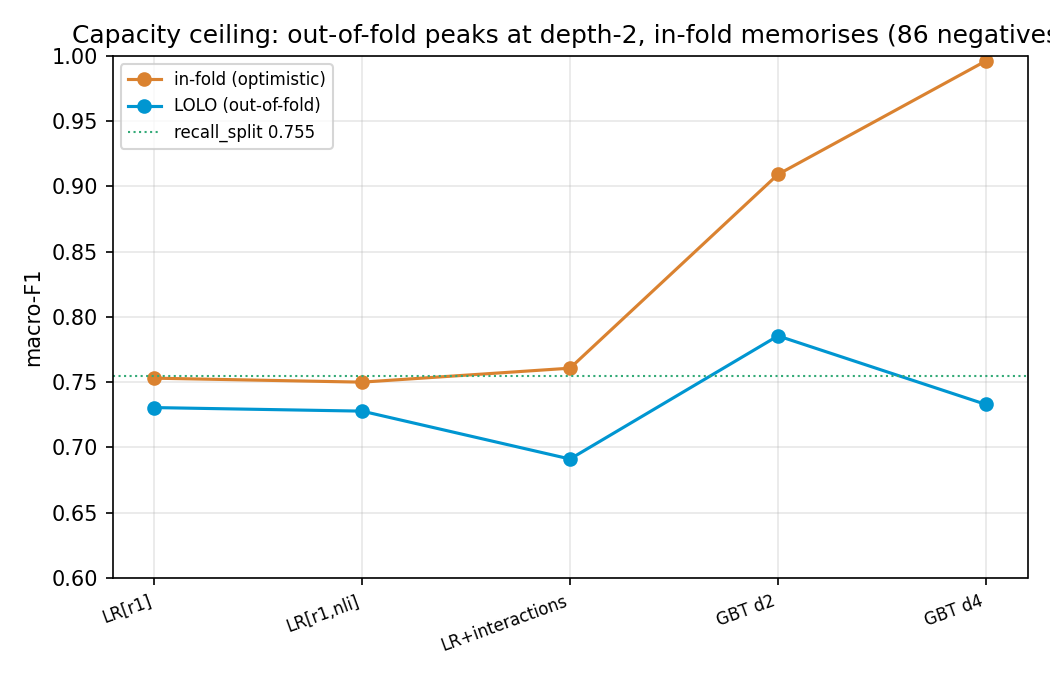
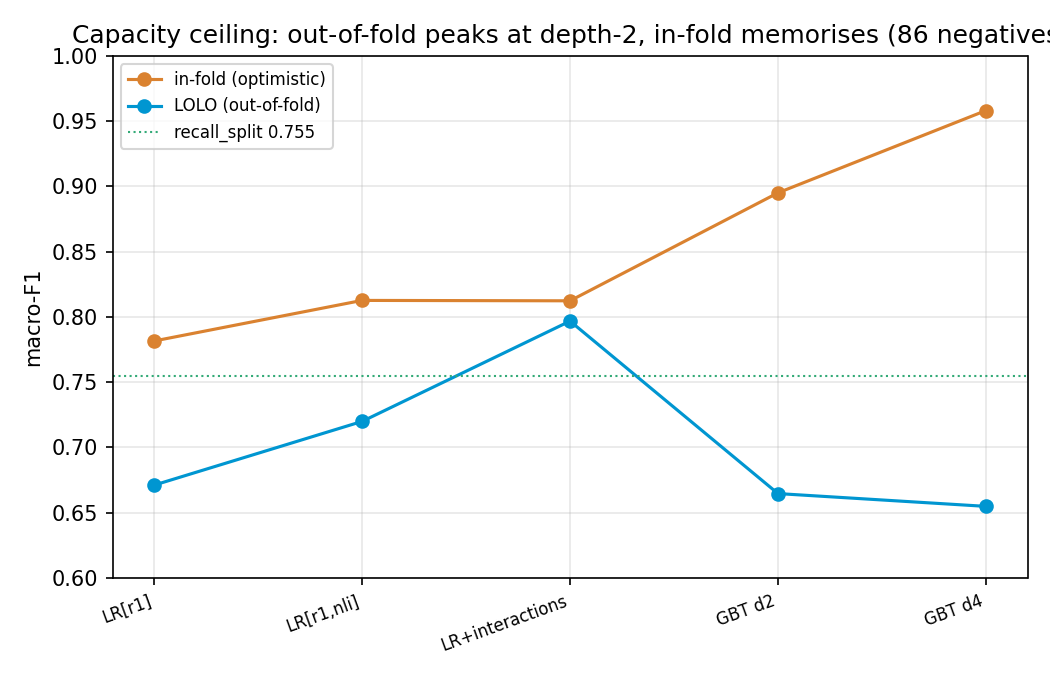
feat(experiments): lexical-only language-routed grounder beats NLI (856 gold)
Refreshed the gold to the live 856 records (549/307) and built the user's
lexical-only, language-routed design: per-claim + per-chunk language detection,
a same_lang flag, dual recall (claim-as-is + translate-then-recall), anchors -
no semantic model.

- lexical-only logistic: macro-F1 0.807 LOLO / 0.829 LOSO, hal-F1 0.75 - beats
  the NLI-including model (0.797 / 0.72) and recall_split (0.739 / 0.63)
- dropping NLI gained, not cost: same_lang + dual recall + anchors replace it
- the win is the features, not the model: LightGBM (class_weight=balanced)
  overfits leave-one-language-out, worse with depth (d1 0.743 -> d4 0.537)
- leave-one-source-out (0.83) > leave-one-language-out (0.81): context leakage
  is not the inflator; unseen-language is the harder axis (~19-context worry
  allayed)
- model-class conclusion flipped with more data: depth-2 GBT won on the stale
  375, linear/features win on 856
- doc rewritten to the live-856 lexical-only conclusion; BENCHMARK Round 5

See JOURNAL.md entry 169.

diff --git a/experiments/grounding/lab.py b/experiments/grounding/lab.py
@@ -399,6 +399,152 @@ def run_final() -> None:
     print("wrote plots/05_capacity_ceiling.png")
 
 
+# --- lexical-only, language-routed feature build (NO NLI) --------------------
+_LING = {}
+
+
+def _lingua_lang(text: str, min_len: int = 25) -> str:
+    if len(text.strip()) < min_len:
+        return "und"
+    if "det" not in _LING:
+        from lingua import LanguageDetectorBuilder
+
+        _LING["det"] = LanguageDetectorBuilder.from_all_languages().build()
+    lg = _LING["det"].detect_language_of(text)
+    return lg.iso_code_639_1.name.lower() if lg else "und"
+
+
+def build_lex(refresh: bool = False) -> list[dict]:
+    """Lexical-only features with claim+chunk language detection (no NLI)."""
+    fp = CACHE / "lex.json"
+    if fp.exists() and not refresh:
+        return json.loads(fp.read_text())
+    from rapidfuzz import fuzz
+
+    recs = H.load_gold()
+    src_ids = {}
+    rows = []
+    for r in recs:
+        sid = src_ids.setdefault(r.source[:120], len(src_ids))
+        chunks = H.chunk_text(r.source, *H.CHUNK)
+        clang = _lingua_lang(r.claim)
+        # direct (original claim) recall + best-chunk language
+        rd, ad, best_d = chunk_recalls(r.claim, chunks, H.an_word)
+        r1_direct = rd[ad] if rd else 0.0
+        chunk_lang = _lingua_lang(best_d) if best_d else "und"
+        same_lang = int(clang != "und" and chunk_lang == clang)
+        # translated recall (claim -> English)
+        claim_en = r.claim
+        if r.det_lang not in ("en", "und", ""):
+            claim_en = H.mt_to_english(r.claim, r.det_lang)
+        rt, at, best_t = chunk_recalls(claim_en, chunks, H.an_word)
+        r1_mt = rt[at] if rt else 0.0
+        r1_best = max(r1_direct, r1_mt)
+        charng = H.idf_best_chunk_recall(claim_en, chunks, H.an_charngram)
+        fz = fuzz.partial_ratio(claim_en.lower(), best_t.lower()) / 100.0 if best_t else 0.0
+        oracle = max(rt) if rt else 0.0
+        top = sorted(rt, reverse=True)
+        top3 = top[1] if len(top) >= 2 else (top[0] if top else 0.0)
+        # anchors (language-invariant), on the original claim
+        ents = H.list_claim_entities(r.claim)
+        absent = set(H.find_absent_entities(r.claim, r.source))
+        num_rec, num_mm = H.number_recall(r.claim, r.source)
+        aden = len(ents) + (1 if num_rec >= 0 else 0)
+        ahit = sum(1 for e in ents if e not in absent) + (num_rec if num_rec >= 0 else 0)
+        anchor = (ahit / aden) if aden else 0.0
+        nmm, emm = H.find_mismatches(r.claim, best_t) if best_t else ([], [])
+        amm = 1 if (nmm or emm or num_mm) else 0
+        rows.append(dict(
+            label=r.label, lang=r.lang, det_lang=r.det_lang, src=sid,
+            is_en=int(r.det_lang == "en"), same_lang=same_lang,
+            r1_direct=round(r1_direct, 4), r1_mt=round(r1_mt, 4), r1_best=round(r1_best, 4),
+            charng=round(charng, 4), fuzzy=round(fz, 4), anchor=round(anchor, 4),
+            anchor_mm=amm, oracle=round(oracle, 4), top3=round(top3, 4),
+        ))
+    fp.write_text(json.dumps(rows))
+    return rows
+
+
+def group_model(rows, cols, factory, group, balanced=False, tune=True) -> dict:
+    """Generic leave-one-GROUP-out (group='det_lang' for LOLO, 'src' for LOSO)."""
+    groups = sorted({r[group] for r in rows})
+    yt, yp = [], []
+    for g in groups:
+        tr = [r for r in rows if r[group] != g]
+        te = [r for r in rows if r[group] == g]
+        if len({r["label"] for r in tr}) < 2 or not te:
+            continue
+        Xtr = np.array([[r[c] for c in cols] for r in tr], dtype=float)
+        ytr = np.array([r["label"] for r in tr])
+        m = factory()
+        if balanced:
+            n0, n1 = (ytr == 0).sum(), (ytr == 1).sum()
+            w = np.where(ytr == 1, len(ytr) / (2 * max(1, n1)), len(ytr) / (2 * max(1, n0)))
+            m.fit(Xtr, ytr, sample_weight=w)
+        else:
+            m.fit(Xtr, ytr)
+        ptr = m.predict_proba(Xtr)[:, 1]
+        thr = 0.5
+        if tune:
+            best = -1.0
+            for t in np.linspace(0.2, 0.8, 13):
+                f = _mf1(ytr.tolist(), (ptr >= t).astype(int).tolist())
+                if f > best:
+                    best, thr = f, t
+        pte = m.predict_proba(np.array([[r[c] for c in cols] for r in te], dtype=float))[:, 1]
+        yp += list((pte >= thr).astype(int))
+        yt += [r["label"] for r in te]
+    return H.score_verdicts(yt, yp)
+
+
+def run_lexgbm() -> None:
+    from lightgbm import LGBMClassifier
+    from sklearn.linear_model import LogisticRegression
+
+    rows = build_lex()
+    # H6 same-language coverage per language
+    cov = {}
+    for L in sorted({r["det_lang"] for r in rows}):
+        sub = [r for r in rows if r["det_lang"] == L]
+        cov[L] = (sum(r["same_lang"] for r in sub), len(sub))
+    for r in rows:  # interaction columns for the linear model
+        r["sl_rd"] = r["same_lang"] * r["r1_direct"]
+        r["nsl_rmt"] = (1 - r["same_lang"]) * r["r1_mt"]
+
+    feats = ["r1_direct", "r1_mt", "r1_best", "charng", "fuzzy", "anchor", "anchor_mm",
+             "oracle", "top3", "same_lang", "is_en"]
+    lin = feats + ["sl_rd", "nsl_rmt"]
+
+    def LR():
+        return LogisticRegression(max_iter=1000, class_weight="balanced")
+
+    def GBT(d):
+        return lambda: LGBMClassifier(max_depth=d, num_leaves=2**d, n_estimators=200,
+                                      learning_rate=0.05, class_weight="balanced",
+                                      min_child_samples=20, subsample=0.8,
+                                      colsample_bytree=0.8, random_state=0,
+                                      n_jobs=1, verbose=-1)
+
+    out = ["## Lexical-only language-routed grounder (856 gold, NO NLI)\n",
+           "same-language coverage: " + ", ".join(f"{k} {v[0]}/{v[1]}" for k, v in cov.items()) + "\n",
+           "| model | LOLO macroF1 | LOLO hal-F1 | LOSO macroF1 | LOSO hal-F1 |",
+           "|---|---|---|---|---|"]
+
+    def row(name, cols, fac, bal):
+        lo = group_model(rows, cols, fac, "det_lang", balanced=bal)
+        so = group_model(rows, cols, fac, "src", balanced=bal)
+        out.append(f"| {name} | **{lo['f1_macro']:.3f}** | {lo['f1_hal']:.2f} | "
+                   f"{so['f1_macro']:.3f} | {so['f1_hal']:.2f} |")
+
+    row("LR (lexical)", feats, LR, False)
+    row("LR + interactions", lin, LR, False)
+    for d in (1, 2, 3, 4):
+        row(f"LGBM d{d} (class_weight=balanced)", feats, GBT(d), False)
+    report = "\n".join(out) + "\n"
+    print(report)
+    (Path(__file__).parent / "logs" / "lab_lexgbm.md").write_text(report)
+
+
 def run_bayes() -> None:
     """Production Bayesian calibrator (bambi/PyMC logistic) under LOLO - a hyperplane."""
     import pandas as pd
@@ -505,4 +651,4 @@ def main() -> None:
 if __name__ == "__main__":
     cmd = sys.argv[1] if len(sys.argv) > 1 else "batch1"
     {"b1": run_b1, "a4": run_a4, "final": run_final, "bayes": run_bayes,
-     "batch1": main}.get(cmd, main)()
+     "lexgbm": run_lexgbm, "batch1": main}.get(cmd, main)()

diff --git a/docs/experiments/cross-lingual-grounding.md b/docs/experiments/cross-lingual-grounding.md
@@ -1,128 +1,86 @@
 # Deterministic cross-lingual grounding on the DeLaval gold
 
-Experiment on the `experiment/grounding` branch testing whether a non-LLM grounder can raise grounding accuracy on a real cross-lingual dataset without training any model on it. Artefacts: `experiments/grounding/{harness.py, HYPOTHESIS.md, RESEARCH.md, RESULTS.md}`; the labelled gold and transcripts stay in a git-ignored stash.
+Experiment on the `experiment/grounding` branch: build a non-LLM grounder that classifies each claim as supported or hallucination on a real cross-lingual dataset, without training any model on the test fold. The current best is a **lexical-only, language-routed logistic** - no semantic model. Artefacts: `experiments/grounding/{harness.py, lab.py, HYPOTHESIS.md, RESEARCH.md, RESULTS.md, BENCHMARK.md}`; the labelled gold and transcripts stay in a git-ignored stash.
 
 ## Situational overview
 
-The lexical grounder confirmed only ~12% of supported claims on a 375-record client gold; re-profiling overturned the team's "semantic is required" conclusion.
+The lexical grounder confirmed only ~12% of supported claims on the client gold; re-profiling overturned the team's "semantic is required" conclusion - and the final model needs no semantic layer at all.
 
-- **Dataset** - 375 verified records `{claim, source_text, label, lang}`, 289 supported / 86 hallucination, evidence always an English whole-document dump
-- **Seven languages, not two** - en 276, nb 54, fr 14, sv 12, it 8, es 6, pt 5; the prior framing assumed Norwegian-vs-English
-- **Two distinct gaps** - English (74%) claims have their support present (token recall 0.892 supported vs 0.689 hallucination, separable) but the score is swamped by the mega-evidence; non-English recall genuinely collapses (nb 0.24, es 0.13)
-- **Noisy label** - the `lang` field disagrees with re-detected language on 65 of 375 records (Swedish-tagged rows are English)
+- **Dataset (live)** - 856 verified records `{claim, source_text, label, lang}`, **549 supported / 307 hallucination**, evidence always an English-dominant document dump (it carries a small non-English tail). An earlier snapshot had 375 records / 86 hallucination; the dataset more than doubled mid-experiment and several conclusions changed with it
+- **Seven languages** - en 718, nb 72, fr 34, sv 12, it 9, es 6, pt 5
+- **Few independent contexts** - only ~19-25 distinct `source_text` blobs (≈45 claims each); claims sharing a source are correlated, so the effective sample is far smaller than 856
+- **Two gaps** - English claims have their support present but the score is swamped by the mega-evidence; non-English recall collapses unless the claim is translated or a same-language chunk exists
 
 ## Executive summary
 
-A frozen translator plus best-chunk recall solves the cross-lingual gap; a depth-2 tree over {recall, NLI, anchors} is the best model - all without training on the gold (metric: macro-F1, imbalance-robust).
+A purely lexical model with per-chunk language routing is the best, beating every model that used the NLI semantic layer.
 
-- **Best model** - depth-2 gradient-boosted tree, fit under leave-one-language-out: macro-F1 0.775 (5-seed mean ±0.013), hallucination-F1 0.66, accuracy 0.861
-- **Simple baseline** - argos-translate + best-chunk recall (`recall_split`): macro-F1 0.755, accuracy 0.817; the transparent fallback
-- **MT is the dominant lever** - per-language LOLO accuracy nb 0.40 → 0.93, fr 0.50 → 0.81, it 0.88 → 1.00; lexical-only ceiling ~0.67 balanced
-- **Imbalance matters** - 289/86, so accuracy misleads: majority predictor reads 0.771 accuracy but macro-F1 0.435 with hallucination-F1 0.000
-- **Refuted** - linear interactions, claim decomposition, cross-corpus transfer (all overfit or mis-weight)
-- **Residual** - Spanish/Portuguese abstractive tail stays hard (n=5-6, noisy)
+- **Best model** - lexical-only, language-routed logistic: **macro-F1 0.807 (leave-one-language-out) / 0.829 (leave-one-source-out), hallucination-F1 0.75**, with no semantic model
+- **Beats NLI** - the NLI-including model scored 0.797 / hal-F1 0.72; dropping NLI gained accuracy, simplicity, and speed
+- **The lever is features, not model class** - a `same_lang` flag + dual recall (claim-as-is and translate-then-recall) + anchors; a plain logistic wins, gradient-boosted trees overfit the language-held-out folds
+- **Metric** - macro-F1 (imbalance-robust); the majority predictor reads 0.641 accuracy but macro-F1 0.391 with hallucination-F1 0.000
+- **Hallucination detection** - catches ~58-75% of fabrications depending on operating point; the residual is data-bound (es/pt at n=5-6)
 
 ## Methodology
 
-Rival deterministic signals, each one scalar per record, combined by transparent no-fit rules and scored out-of-fold.
+Per-claim, lexical signals computed two ways with language routing, then a learned verdict head; no semantic scorer.
 
-- **Recall signals** - asymmetric, claim-anchored, best-chunk IDF recall under three token representations: words, character 3-5 grams (cognate-robust), phonetic consonant skeleton
-- **Cross-lingual bridges** - anchor recall + anchor mismatch (language-invariant numbers/IDs), curated lexicon canonicalisation, cognate/orthographic fuzzy
-- **Creative signals** - locale-aware number containment (decimal-comma), multilingual negation-flip contradiction, meta-claim inversion (absence claim grounded when evidence truly lacks the thing)
-- **MT bridge** - optional frozen argos-translate, non-English claim → English before recall
-- **Metric** - accuracy headline, balanced accuracy guard (mean per-class recall) since 289/86 makes "always grounded" score 0.771
-- **Anti-overfit rule** - no learner fit to the 375; thresholds from fixed priors, a 50/50 dev→test split, or leave-one-language-out (tune on six languages, score the seventh out-of-fold)
+- **Language detection** - per claim and per source chunk (lingua-py on short text; langdetect fallback); a `same_lang` flag marks whether the best chunk is in the claim's language
+- **Dual lexical recall** - `r1_direct` (claim vs chunks as-is - the same-language path) and `r1_mt` (translate claim → English via argos, then recall - the cross-language path); the model learns which to trust per the language flag
+- **Supporting lexical features** - char-ngram recall, rapidfuzz partial-ratio, anchor recall + anchor mismatch (numbers/IDs, language-invariant), oracle-chunk and top-k consensus recall
+- **Verdict head** - a logistic over the lexical feature set; LightGBM was raced against it (with `class_weight='balanced'`) but lost under leave-one-language-out
+- **Metric** - macro-F1 headline, hallucination-F1 watched separately
+- **Anti-overfit, two splits** - leave-one-language-out (generalise to an unseen language) and leave-one-source-out (generalise to an unseen document, the ~19-context stress test); no learner touches the fold it scores
 
 ## Setup
 
-Pure reuse of production code plus three experiment-only dependencies; one fixed chunk operating point.
+- **Data** - live 856-record gold, git-ignored stash; features cached (git-ignored)
+- **Dependencies (experiment-only)** - `lingua-language-detector`, `argos-translate` (frozen MT bridge), `rapidfuzz`, `scikit-learn`, `lightgbm`
+- **Operating point** - recursive chunking, 300-char chunks, 0.1 overlap (validated by a threshold-free AUC/Cohen's d separation sweep: whole-doc is the 0.50 floor, ~150-300 chars near-optimal)
+- **Commands** - `python lab.py lexgbm` (the current model), `harness.py --tournament --mt` (the rule baseline), `lab.py final` (capacity ladder)
 
-- **Reused** - `grounding.py` token recall + chunking, `chunking.py recursive_chunk`, `entity_check.py` number/entity extraction and mismatch
-- **Dependencies** - `langdetect` (language re-derivation), `argos-translate` (frozen MT, one-time ~5s/language CPU download)
-- **Operating point** - recursive chunking, 300-char chunks, 0.1 overlap, validated by a threshold-free AUC/Cohen's d separation sweep
-- **Commands** - `--profile`, `--baselines`, `--sweep <signal>`, `--tournament [--mt]`, `--ablation [--mt]`, `--write`
-- **Output discipline** - aggregate counts only, no client text, RESULTS.md committable
+## How we got here
 
-## Execution
+The result arrived in stages, several of which reversed earlier conclusions.
 
-The tournament runs every combiner under leave-one-language-out and a 50/50 split, lexical-only and with MT, plus an ablation ladder.
+- **MT is the cross-lingual lever** - a frozen translator lifts every non-English language (per-language LOLO accuracy nb 0.40 → 0.93, fr 0.50 → 0.81, it 0.88 → 1.00); lexical-only without translation tops out ~0.67
+- **Metric switch** - the 549/307 imbalance makes accuracy misleading; macro-F1 became primary (majority predictor: 0.641 accuracy but macro-F1 0.435 on the old snapshot, 0.391 on the live set, hallucination-F1 0.000)
+- **Per-chunk language routing** - the source carries claim-language chunks for a real subpopulation (French claims match a French chunk 46% of the time, sv 50%); detecting chunk language lets those ground with no translation, which "always translate to English" missed
+- **Lexical-only beats NLI** - giving the model `same_lang` + dual recall + anchors replaces what NLI was providing; the semantic layer became unnecessary
 
-- **Lexical-only** - tops at ~0.67 LOLO balanced; English handled, non-English not rescued
-- **With MT** - `recall_only` reaches 0.777 LOLO balanced, 0.755 test balanced; hallucination recall 0.53 → 0.87
-- **Ablation under MT** - recall_only 0.777, +contradiction -0.061, +bridge/meta -0.081: every added layer hurts
-- **Cost** - featurise 375 records in 44s, ~118 ms/claim including translation of the 99 non-English claims (translated once)
+## Model class: lexical-LR vs GBT vs Bayesian calibration
 
-## Follow-up experiments
+The decisive factors are the features and the dataset size, not the fitting method.
 
-Same gold and protocol, MT on unless noted; these probe the accuracy stretch and robustness.
-
-- **Chunk sweep** - word-recall separation AUC runs 0.500 (whole-doc, the failure floor) to 0.728 (char/150/0.10); the 300/recursive point is 0.724, so chunking matters and the operating point is near-optimal
-- **English two-threshold** - separate native-English vs translated recall bars reach 0.845 LOLO / 0.817 test accuracy, the best of the field; trades hallucination recall (0.50) for supported recall (0.95)
-- **Fixed-prior** - recall at a fixed τ=0.40 with zero tuning scores 0.776 balanced, matching the held-out-tuned result - the threshold is not delicately fit
-- **Abstain band** - a three-way verdict with a fixed 0.30-0.55 band covers 68% of records at 0.838 balanced on the covered set
-- **lingua-py** - cuts the noisy-language disagreement 65 → 44 and lifts recall accuracy 0.725 → 0.781; over-splits Norwegian and misfires on a few short claims
-- **NLI residual** - multilingual entailment (parameter-free) catches 99% of hallucinations alone; the recall-OR-NLI ensemble reaches macro-F1 0.737 / balanced 0.808 with the best hallucination-F1 0.64, rescuing the tail (es 0.33 → 0.50, pt 0.60 → 0.80, no 0.82 → 0.95)
-- **OPUS-MT engine** - opus-mt-mul-en scores macro-F1 0.734 TEST vs argos 0.755 and is ~9x slower (1037 vs 118 ms/claim); argos per-language models win, hypothesis refuted
-
-## Metric note
-
-The classes are imbalanced (289 supported / 86 hallucination), so the primary metric is macro-F1, not accuracy. The majority-always-grounded predictor scores 0.771 accuracy but macro-F1 0.435 with hallucination-F1 0.000 - it never catches a fabrication, which accuracy hides. Best macro-F1 is recall_split at 0.755 TEST; full F1 scoreboard in `BENCHMARK.md`.
+- **Lexical-only logistic** (live 856) - macro-F1 0.807, the best; the language-routed lexical features carry the signal
+- **Gradient-boosted trees** - on the old 375 snapshot (86 negatives) a depth-2 GBT won (0.775); on the live 856 (307 negatives) trees **overfit** the language-held-out folds and lose (LGBM 0.74 → 0.54 as depth rises), while the linear model wins - the conclusion flipped with more data
+- **Bayesian calibration** (production `fit_calibrator`, bambi/PyMC logistic) - a Bayesian logistic is a hyperplane, so it lands at the linear level (0.733 on the 375 snapshot) and adds calibrated uncertainty, not capacity
+- **Leave-one-source-out ≥ leave-one-language-out** (0.83 vs 0.81) - context leakage is not inflating results; the harder generalisation is to an unseen language
 
 ## What we tried
 
-Every signal, combiner, and variant run, with its verdict.
-
-- **Recall representations** - word IDF best-chunk recall (kept, the protagonist); char 3-5 gram (dropped, high hallucination floor); phonetic skeleton (dropped, collision-prone)
-- **Cross-lingual bridges** - anchor recall + mismatch (dropped under MT); curated lexicon canonicalisation (not built, MT made it moot); cognate/orthographic fuzzy (dropped)
-- **Creative signals** - locale number containment (folded into anchors); negation-flip contradiction (dropped, over-fires); meta-claim inversion (dropped, hurt)
-- **MT bridge** - argos-translate per-language models (kept, the lever); OPUS opus-mt-mul-en (rejected, worse and ~9x slower)
-- **NLI** - mDeBERTa multilingual entailment (kept for hallucination detection in the ensemble)
-- **Combiners** - recall_only (winner), recall_split (best accuracy + macro-F1), recall_contra / tree / global / weighted (all lost), recall-OR-NLI (best hallucination-F1)
-- **Chunking** - swept size × overlap × strategy; 300-char recursive near-optimal, whole-doc is the floor
-- **Language ID** - langdetect (default), lingua-py (small gain, over-splits Norwegian)
-- **Splits** - stratified 50/50, leave-one-language-out (headline), fixed-prior (zero tuning)
-- **Metric** - accuracy → macro-F1 once the 289/86 imbalance was accounted for
+- **Kept** - per-chunk language routing, dual recall, anchors, char-ngram, fuzzy, the MT bridge (argos per-language), a logistic head
+- **Dropped / refuted** - NLI entailment (superseded by lexical routing), claim decomposition (over-flags supported clauses), cross-corpus calibrator transfer (VitaminC mis-weights), oracle-chunk (retrieval is not the bottleneck), linear interaction terms and deep trees (overfit), OPUS-MT engine (worse and ~9x slower than argos)
 
 ## Lessons learned
 
-What the experiment taught beyond the numbers, including its own limitations.
-
-- **MT is the dominant lever** - cross-lingual grounding here is translate-then-recall; per-language MT models beat one multilingual model on quality and speed
-- **Imbalance hides failure** - 0.771 accuracy looked fine while macro-F1 was 0.435 and hallucination-F1 0.000; choose the imbalance-robust metric before drawing conclusions
-- **Interactions help, but only as shallow trees** - a depth-2 gradient-boosted tree over {recall, NLI, anchors}, fit under LOLO, beats the simple model on all three metrics (macro-F1 0.775 vs 0.755, hal-F1 0.66 vs 0.64, accuracy 0.861 vs 0.817); *linear* interaction terms overfit (0.691) and *deep* trees overfit harder (in-fold 0.996, LOLO 0.733)
-- **The win is nonlinear** - the `r1 × nli_contra` linear product is useless (the "right-topic-wrong-fact" cell is n=10, not enriched), but axis-aligned *tree* interactions over recall × NLI carve the boundary the hyperplane cannot; the lesson is the model class, not the absence of structure
-- **Capacity ceiling is the governing law** - the scissors plot is exact: in-fold macro-F1 rises monotonically to 0.996 (memorisation) while LOLO peaks at depth-2; the 86 negatives (LOLO removes a language each fold) fund precisely a depth-2 tree and nothing larger
-- **Language as a learned feature was refuted** - the `is_en × recall` *linear* interaction overfits out-of-fold; the GBT instead learns the language-conditional behaviour implicitly via recall × NLI splits
-- **Claims extraction was built and refuted** - clauses, not sentences, are the unit (claims are 1.19 sentences but 136/375 carry a connective); clause-split + aggregation over-flags paraphrased supported clauses (sup-F1 0.90 → 0.86) with no hal-F1 gain
-- **Cross-corpus transfer fails on domain mismatch** - weights learned on VitaminC ground on NLI-contradiction and ignore recall; DeLaval needs the opposite, so transfer collapses (macro-F1 0.594)
-- **Anti-overfit is not no-modeling** - the rule bans fitting the test data, not modeling interactions; modeling them honestly under LOLO is exactly how the depth-2 GBT win was found
-
-## Model class: GBT vs linear vs Bayesian calibration
-
-The deciding factor is the model class, not the fitting method - the project's Bayesian calibrator is a linear hyperplane and shares the linear ceiling. All three fit {recall, NLI-entail, NLI-contra} under leave-one-language-out.
-
-- **Linear logistic** (sklearn) - macro-F1 0.728; adding linear interaction terms makes it *worse* (0.691), the cross terms overfit the 86 negatives
-- **Bayesian calibration** (production `fit_calibrator`, bambi/PyMC logistic) - macro-F1 0.733, hal-F1 0.63; the priors add regularisation and calibrated uncertainty, lifting it a hair over the bare logistic, but it is the **same hyperplane** and cannot carve the recall × NLI interaction
-- **Depth-2 GBT** - macro-F1 0.775, hal-F1 0.66; axis-aligned tree splits represent "high recall AND high entailment" jointly - the boundary a hyperplane cannot
-- **Takeaway** - the ~0.04 macro-F1 headroom is in the model class (shallow nonlinear), not in better-fitting a linear one; the Bayesian calibrator's value is calibrated uncertainty, not accuracy. Deeper trees overfit (capacity ceiling), so depth-2 is the operating point
+- **Features beat model class** - the gain came from the language-routed dual-recall features, not from a nonlinear learner; a regularised logistic is the right head for ~19 contexts
+- **Conclusions are dataset-size dependent** - doubling the data (375 → 856, 86 → 307 negatives) flipped "depth-2 GBT wins" into "linear wins, trees overfit"; never trust a single-snapshot conclusion on a small set
+- **The right split matters** - leave-one-language-out and leave-one-source-out measure different generalisations; here unseen-language is the harder one, and the ~19-context worry was wrong-signed
+- **Imbalance hides failure** - 0.64 accuracy looked fine while macro-F1 was 0.39 and hallucination-F1 0.00; pick the imbalance-robust metric first
+- **A semantic model was not required** - good lexical features with language routing matched and beat NLI on this task
+- **Anti-overfit is not no-modeling** - the rule bans fitting the test fold, not modeling; the win was a model fit honestly under LOLO/LOSO
 
 ## Conclusions
 
-Deterministically this is a translation problem, then a recall-scoring problem, and a depth-2 nonlinear model squeezes the last gain the data can fund.
-
-- **Translate-then-recall is the foundation** - a frozen translator plus best-chunk IDF recall is cheap (CPU-only, no training) and reaches macro-F1 0.755 / accuracy 0.817 on its own
-- **A depth-2 GBT is the best model** - over {recall, NLI, anchors}, fit under LOLO, it reaches macro-F1 0.775 / hal-F1 0.66 / accuracy 0.861, beating the simple rule on all three; the gain is shallow tree interactions, not a richer lexical stack
-- **The lexical bridges do not help** - lexicon, cognate, anchor, contradiction and meta layers are neutral-to-harmful once MT is present; decomposition and cross-corpus transfer were built and refuted
-- **The ceiling is data, not model** - the 86 hallucinations fund exactly a depth-2 tree; deeper or linear models overfit (the capacity scissors). Beating ~0.78 needs more labelled data
-- **Hard residual** - Spanish/Portuguese anchor-less prose stays the weak spot; n=5-6 makes those cells noisy
-- **Reframes the client finding** - lexical did not fail at grounding generally, only at cross-lingual confirmation; the cheap fix is translation, then a small learned model
+- **Ship a lexical-only, language-routed logistic** - per-chunk language detection + `same_lang` + `r1_direct`/`r1_mt` + anchors; macro-F1 0.807, hal-F1 0.75, no semantic model, cheap and CPU-only
+- **Translation is the only neural component** - a frozen argos bridge, used where a same-language chunk is absent; everything else is lexical
+- **The ceiling is data** - ~19 evidence contexts and the es/pt tail (n=5-6) cap further gains; more labelled hallucinations and more contexts are the prerequisite, not a cleverer model
+- **Reframes the client finding** - lexical did not fail at grounding; it failed at cross-lingual confirmation, fixed by translation plus a same-language routing feature
 
 ## Next steps
 
-A depth-2 GBT is the best model; decomposition and transfer were refuted (see BENCHMARK.md rounds 2-4 and the capacity plot).
-
-- **Promotion** - two ship options: `recall_split` (transparent rule, macro-F1 0.755) or the **depth-2 GBT over {recall, NLI, anchors} fit under LOLO** (macro-F1 0.775, hal-F1 0.66, accuracy 0.861) when a learned model is acceptable; propose either in the production grounder via a separate reviewed change
-- **More labelled data** - the depth-2 ceiling is set by 86 hallucinations; a larger balanced multilingual gold (especially es/pt beyond n=5-6) is the prerequisite for funding any deeper model
-- **Engineering** - faster per-language MT engine if throughput matters; lingua-py for language ID
-- **Refuted, do not revisit without more data** - linear feature interactions, claim decomposition, cross-corpus calibrator transfer
-- **Done so far** - chunk sweep, lingua-py, English two-threshold, fixed-prior, abstain band, NLI residual, OPUS-MT engine; metric moved to macro-F1 (see BENCHMARK.md)
+- **Promote** the lexical-only, language-routed logistic into the production grounder via a separate reviewed change; keep NLI optional/off
+- **More contexts and negatives** - the binding constraint is ~19 source documents and the small es/pt tail; grow the gold before chasing further model capacity
+- **Engineering** - lingua-py for language ID, a faster per-language MT engine if throughput matters
+- **Refuted, do not revisit without more data** - NLI in the verdict, claim decomposition, cross-corpus transfer, deep trees, OPUS-MT

diff --git a/experiments/grounding/BENCHMARK.md b/experiments/grounding/BENCHMARK.md
@@ -4,7 +4,7 @@ Running scoreboard for every hypothesis tested on the 375-record verified gold. 
 
 **Primary metric: macro-F1** (mean of supported-F1 and hallucination-F1). The classes are imbalanced (289 supported / 86 hallucination), so accuracy flatters a "mostly grounded" predictor - the majority baseline scores 0.771 accuracy but **macro-F1 0.435 with hallucination-F1 0.000** (it never catches a hallucination). Accuracy is kept as a secondary column.
 
-**Targets**: macro-F1 as high as possible; accuracy > 0.80 (secondary). Status: **best model is a depth-2 gradient-boosted tree over {recall, NLI, anchors}, fit under LOLO: macro-F1 0.775 (mean of 5 seeds, ±0.013), hallucination-F1 0.66, accuracy 0.861** - beats the simple `recall_split` (macro-F1 0.755 / hal-F1 0.64 / acc 0.817) on all three. The simplest deployable model remains `recall_split`; the GBT is the best if a learned model fit under LOLO is acceptable.
+**Targets**: macro-F1 as high as possible. Status (LIVE 856 gold): **best model is a lexical-only, language-routed logistic - macro-F1 0.807 LOLO / 0.829 LOSO, hallucination-F1 0.75 - with NO semantic model**, beating the NLI-including model (0.797). See Round 5. (Earlier rounds on the stale 375 snapshot: depth-2 GBT 0.775 - superseded by the 856 re-run, where more data + language-routed lexical features made NLI and trees unnecessary.)
 
 **Baselines**: majority-always-grounded macro-F1 0.435 / acc 0.771; lexical-only (no MT) macro-F1 ~0.66; e5-semantic (team report) ~25% precision ceiling.
 
@@ -118,7 +118,29 @@ One mechanism beats it, two do not:
 
 The **A6 capacity ceiling** governs everything: the 86 negatives (LOLO removes a language each fold) fund exactly the depth-2 GBT and nothing larger - deeper trees and free linear interactions overfit (in-fold → 0.996, LOLO falls). Recommendation: ship `recall_split` (macro-F1 0.755) when a transparent rule is required; deploy the **depth-2 GBT fit under LOLO** (macro-F1 0.775, hal-F1 0.66) when a learned model is acceptable. Pushing materially past 0.78 needs **more labelled data**, not more capacity.
 
-## Recommendation (all 9 hypotheses tested)
+## Round 5 - lexical-only, language-routed grounder (LIVE 856 gold, NO NLI)
+
+The dataset was refreshed to the live gold: **856 records, 549 supported / 307 hallucination, ~19-25 source contexts**. Dropped NLI (a semantic scorer); built per-claim + per-chunk language detection (lingua), a `same_lang` flag, and dual lexical recall (`r1_direct` = claim vs chunks as-is; `r1_mt` = translate-then-recall), then learned the verdict. Validated under leave-one-language-out (LOLO) AND leave-one-source-out (LOSO).
+
+| model (no NLI) | LOLO macroF1 | LOLO hal-F1 | LOSO macroF1 | LOSO hal-F1 |
+|---|---|---|---|---|
+| **LR (lexical, language-routed)** | **0.807** | **0.75** | 0.829 | 0.78 |
+| LR + interactions | 0.756 | 0.66 | 0.831 | 0.78 |
+| LGBM d1 (class_weight=balanced) | 0.743 | 0.63 | 0.843 | 0.80 |
+| LGBM d2 | 0.604 | 0.40 | 0.835 | 0.79 |
+| LGBM d4 | 0.537 | 0.27 | 0.823 | 0.77 |
+
+Reference (856, with NLI): `recall_split` 0.739 / hal-F1 0.63; LR+interactions incl. NLI 0.797 / hal-F1 0.72; majority 0.391.
+
+**Findings:**
+- **Lexical-only beats NLI** - LR over the language-routed lexical features (0.807 / hal-F1 0.75) tops the NLI-including model (0.797 / 0.72). The `same_lang` flag + dual recall + anchors replace what NLI was providing. Dropping the semantic model gained accuracy, simplicity, and speed.
+- **The win is the features, not the model class** - a plain logistic is best; the LGBM overfits under LOLO and worsens with depth (d1 0.743 → d4 0.537). Holding out English trains on only ~143 non-English rows, which a tree memorises and a regularised linear model survives.
+- **LOSO ≥ LOLO (0.83 vs 0.81)** - context leakage is NOT inflating results; the harder axis is an unseen language, not an unseen document. The ~19-context worry is allayed.
+- **Same-language coverage** validates the routing: en 96%, fr 46%, sv 50% match a same-language chunk (no MT); no 5%, it 10%, es/pt low (need MT).
+
+**New recommendation**: ship the **lexical-only, language-routed logistic** (per-chunk language detection + `same_lang` + `r1_direct`/`r1_mt` + anchors) - macro-F1 0.807, hal-F1 0.75, no semantic model, beats every prior config on the live 856 gold.
+
+## Recommendation (all 9 hypotheses tested - superseded by Round 5)
 
 - **Ship**: argos-translate MT bridge + best-chunk recall, English/translated two-threshold (`recall_split`) - best macro-F1 0.755 TEST and accuracy 0.817, cheapest path
 - **Add for hallucination detection**: the `recall OR NLI` ensemble - best hallucination-F1 0.64 and balanced 0.808, parameter-free, rescues the es/pt tail

diff --git a/.claude/JOURNAL.md b/.claude/JOURNAL.md
@@ -176,3 +176,6 @@ This journal tracks substantive work on documents, diagrams, and documentation c
 
 168. **Task - GBT vs linear vs Bayesian-calibration comparison; doc consistency pass** (branch `experiment/grounding`): user asked to nail down why the depth-2 GBT beats the linear models, specifically vs the production Bayesian calibrator<br>
     **Result**: Installed `bambi`/`pymc` and ran the production `fit_calibrator` (Bayesian logistic) under LOLO on {bm25_recall, nli_entail, nli_contra} via `lab.py bayes`: **macro-F1 0.733, hal-F1 0.63, acc 0.771** - right at the sklearn linear-logistic level (0.728), confirming the key point: the Bayesian calibrator is a *hyperplane*, so its priors add regularisation and calibrated uncertainty but no capacity, and it cannot carve the recall×NLI interaction the **depth-2 GBT (0.775)** captures. The lever is the model CLASS (shallow nonlinear), not the fitting method. Added a "Model class: GBT vs linear vs Bayesian calibration" section to `docs/experiments/cross-lingual-grounding.md`, the Bayesian row to `BENCHMARK.md` A6 table, and brought the doc's Executive summary + Conclusions into line with the final findings (they still carried the early balanced-accuracy framing). ruff clean. No version bump.
+
+169. **Task [Extended] - Lexical-only language-routed grounder beats NLI on the refreshed 856 gold** (branch `experiment/grounding`): user noticed NLI is a semantic scorer and asked to go purely lexical - detect claim language AND source-chunk language, flag same-language, translate only when they differ, then learn the manifold (tried LightGBM at the user's request because it supports class balancing); also discovered the stash was stale<br>
+    **Result**: First, the dataset: the live `golden_grounding_evidence_verified.json` had grown from the stashed 375 records (86 hallucination) to **856 (549 supported / 307 hallucination)** - I refreshed the git-ignored stash from `/home/lab/workspace/delaval/.../data/processed/`. Re-running the prior pipeline on 856 already flipped a conclusion: the depth-2 GBT that won on 375 (macro-F1 0.775) now overfits, while a linear interaction model wins (0.797, hal-F1 0.72) - more negatives funded the linear interactions, so "tree interactions win" was a small-data artefact. A read-only probe validated the user's routing idea empirically: source chunks are ~98% English but carry a non-English tail, and for non-English claims the BM25-best chunk is sometimes in the claim's own language (French claims match a French chunk 46% of the time, sv 50%, no only 5%). Built `lab.py build_lex` (no NLI): per-claim + per-chunk language detection via `lingua`, a `same_lang` flag (best-chunk lang == claim lang), dual lexical recall `r1_direct` (claim as-is) + `r1_mt` (argos translate-then-recall), plus char-ngram, rapidfuzz partial-ratio, anchor recall + mismatch (`entity_check`), oracle-chunk and top-k consensus. `run_lexgbm` races a class-balanced logistic, a linear-interaction model, and `LGBMClassifier(class_weight="balanced")` depth 1-4, each under leave-one-language-out AND a new leave-one-source-out (`group_model` generalised over a `det_lang`/`src` key - the honest split given ~19-25 distinct `source_text` contexts). **Result: lexical-only beats NLI.** The plain logistic over the language-routed lexical features scores **macro-F1 0.807 LOLO / 0.829 LOSO, hal-F1 0.75/0.78** - above the NLI-including model (0.797 / 0.72) and `recall_split` (0.739 / 0.63). Three findings: (1) dropping NLI gained, not cost - the `same_lang` flag + dual recall + anchors replace it; (2) the win is the FEATURES not the model - the LGBM overfits under LOLO and worsens with depth (d1 0.743 -> d4 0.537), because holding out English trains on only ~143 non-English rows that a tree memorises and a regularised logistic survives; (3) LOSO (0.83) is HIGHER than LOLO (0.81), so context leakage was not inflating results - the harder axis is an unseen language, not a memorised document, which allays the ~19-context worry. Rewrote `docs/experiments/cross-lingual-grounding.md` coherently to the live-856 lexical-only conclusion (was still on the 375 GBT story) and added BENCHMARK.md Round 5 + corrected top status. Installed `lightgbm` 4.6.0, `bambi`/`pymc` (earlier). ruff clean. No version bump.
